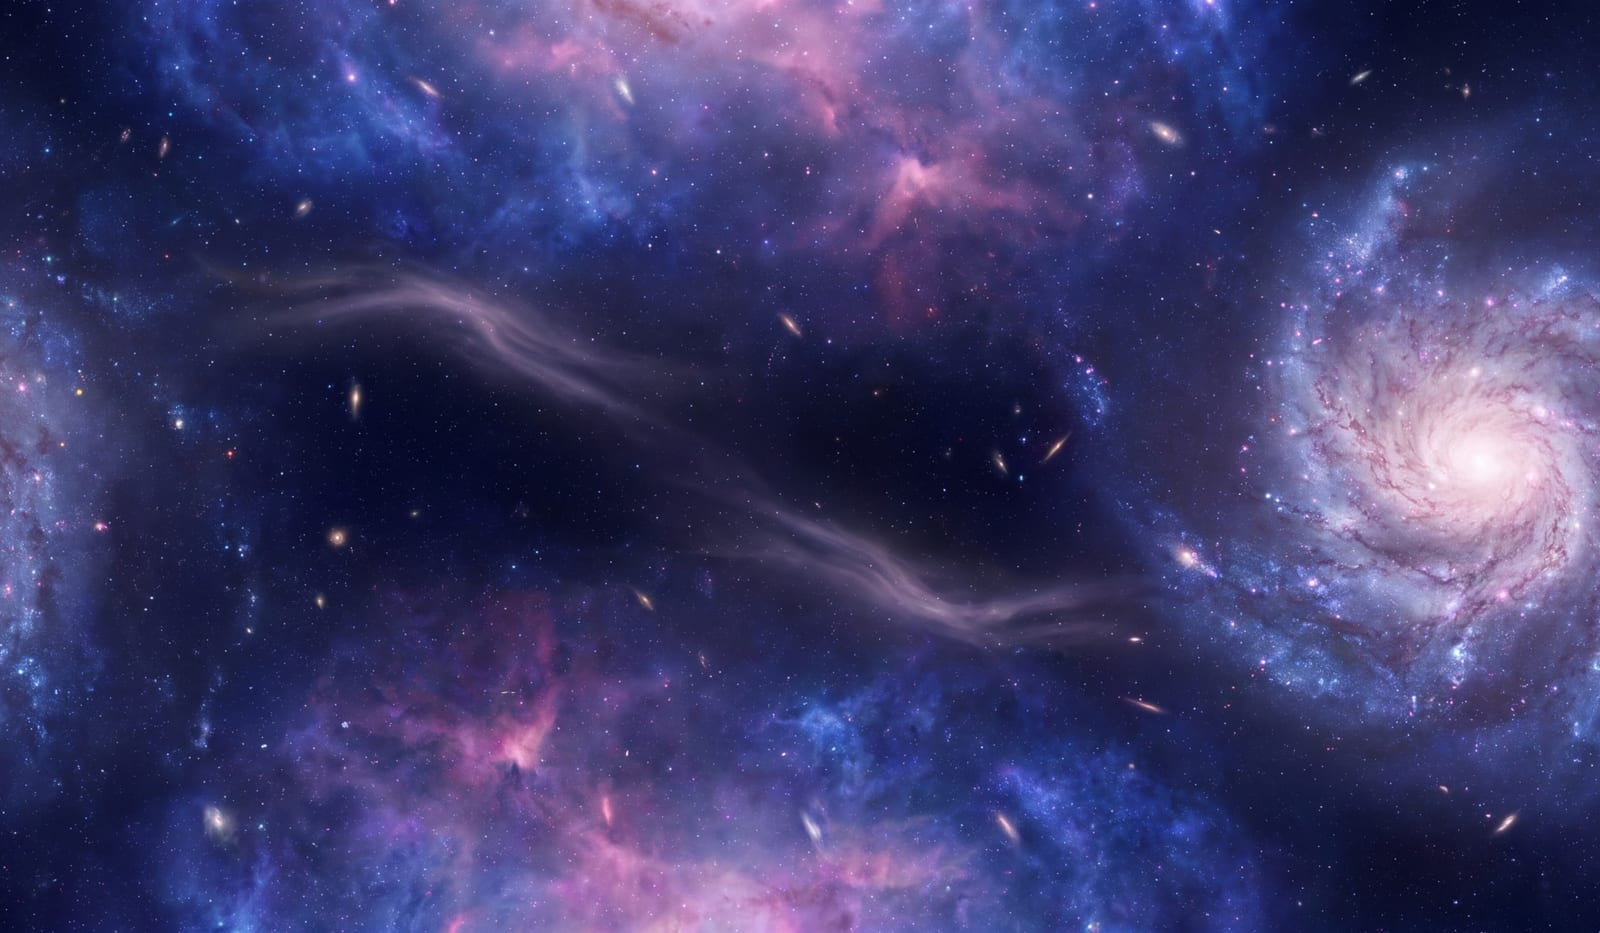
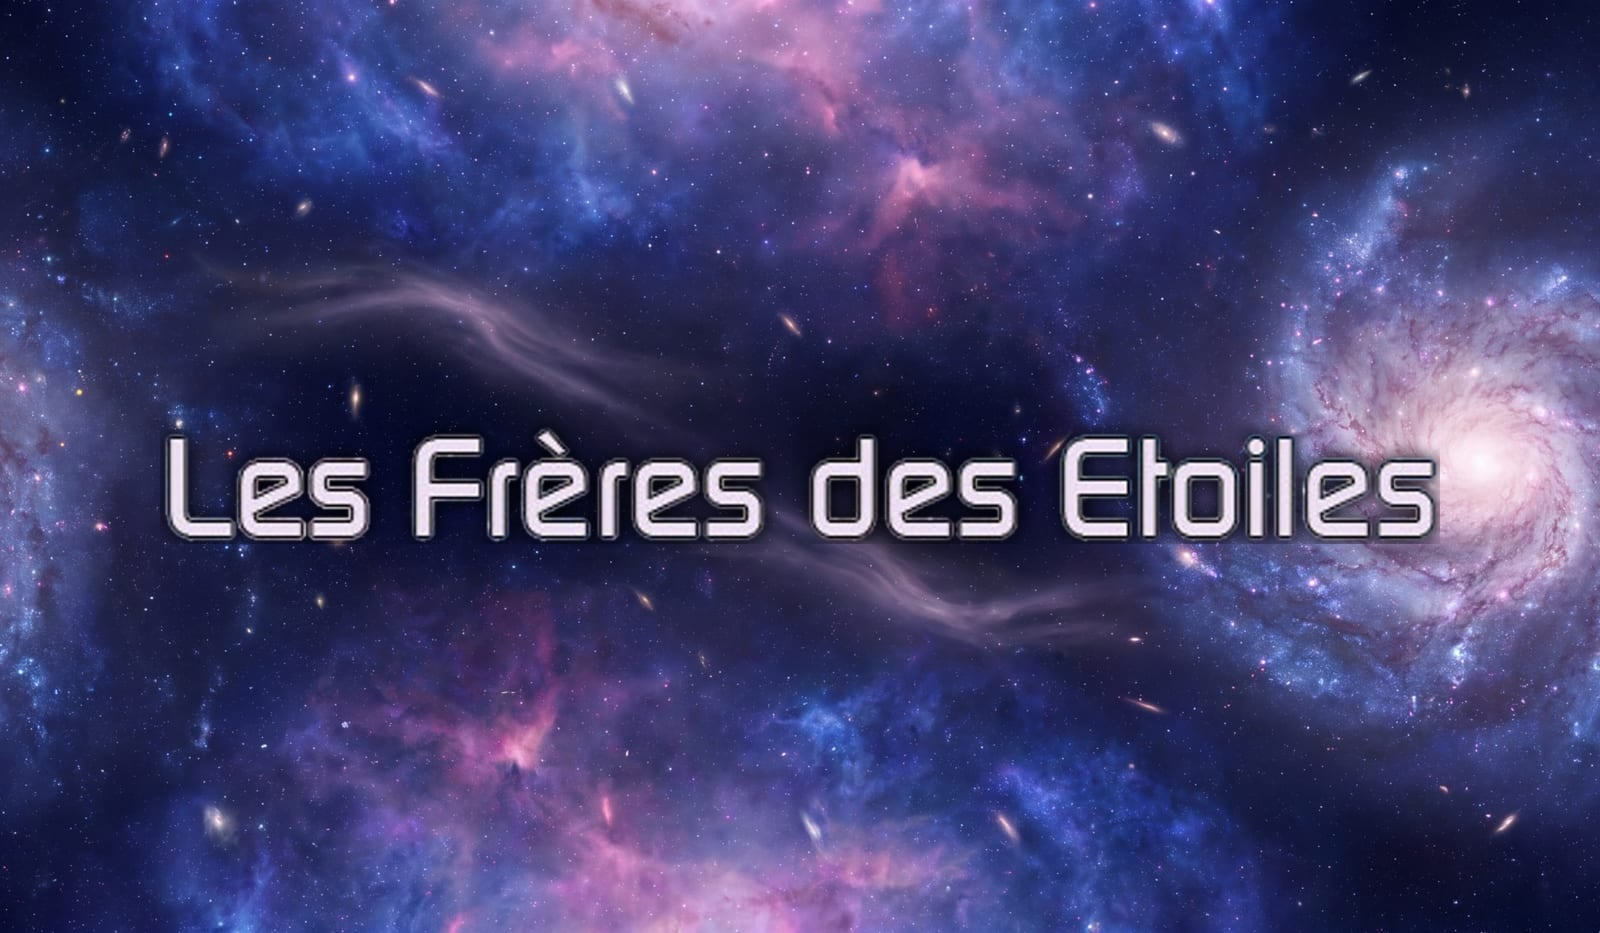
Nouveau site : Team galactique, lettres d'origine détourées sur la galaxie
Les lettres « Les Frères des Etoiles » sont détourées du bandeau d'origine
(même écriture, même contour) et posées sur la galaxie, à la place du titre
en texte HTML.

Claude-Session: https://claude.ai/code/session_01U3vHeCkqmLHU1Hqp517c1p

Changed region(s): [[0.0938, 0.4352, 0.9062, 0.5906]]

diff --git a/v3-src/nouveau-site/styles/relier.css b/v3-src/nouveau-site/styles/relier.css
@@ -479,8 +479,6 @@ main { overflow-x: clip; }
 .card:hover .img--band img.band-title { transform: translateY(-50%) scale(1.03); }
 /* Visuel sur mesure + titre en texte (Team galactique). */
 .card .img--cover img { -webkit-mask-image: none; mask-image: none; }
-.card .img-title { position: absolute; inset: 0; display: grid; place-items: center; padding: 0 8%; text-align: center; font-family: var(--serif); font-weight: 400; font-size: clamp(24px, 2.5vw, 36px); line-height: 1.1; letter-spacing: .04em; color: #f4ecff; text-shadow: 0 0 18px rgba(170, 140, 255, .9), 0 0 42px rgba(110, 90, 230, .7), 0 2px 6px rgba(0, 0, 0, .6); pointer-events: none; }
-.card--feature .img-title { font-size: clamp(32px, 3.4vw, 48px); }
 .card:hover .img img { transform: scale(1.04); }
 .card .label { display: block; margin-top: 18px; }
 .card .t { display: block; margin-top: 10px; font-family: var(--serif); font-size: 28px; line-height: 1.2; transition: color .3s; }
